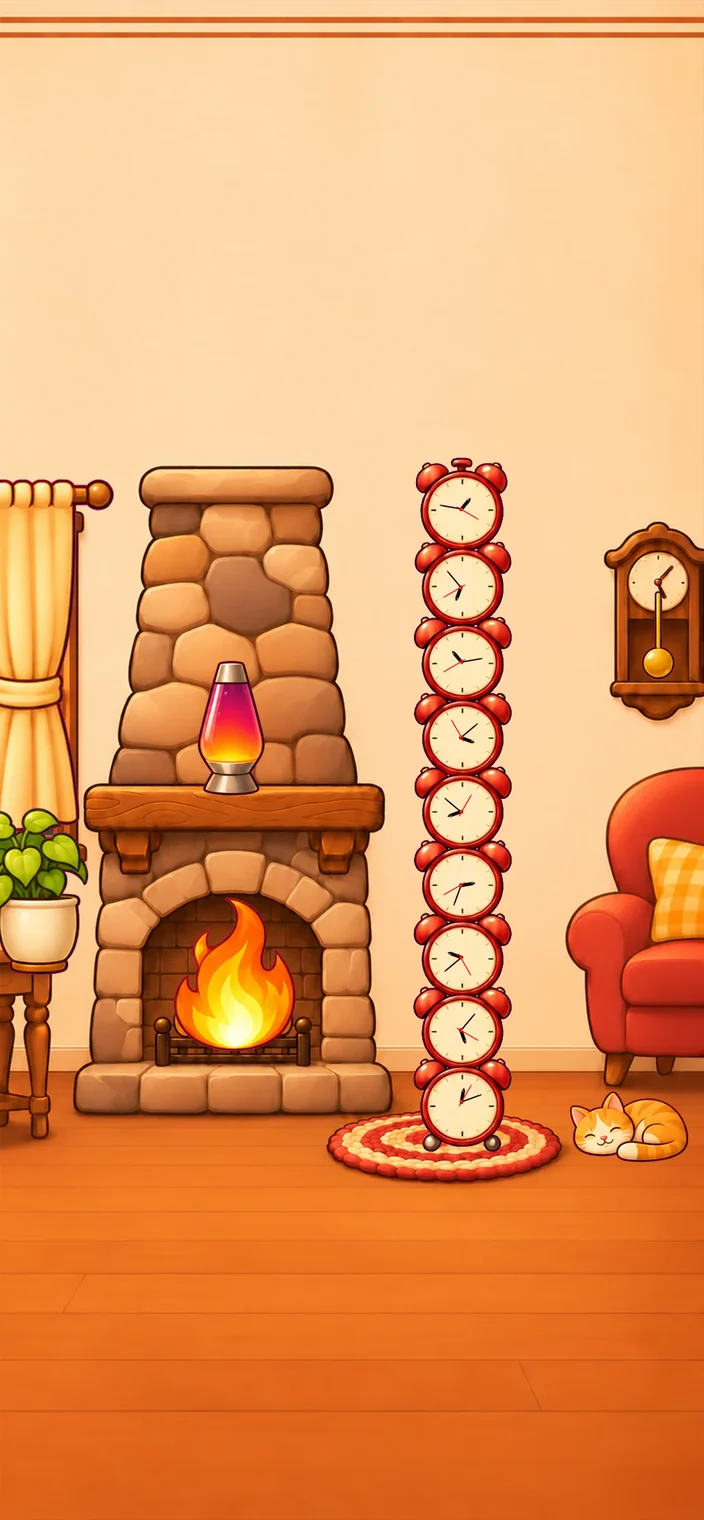
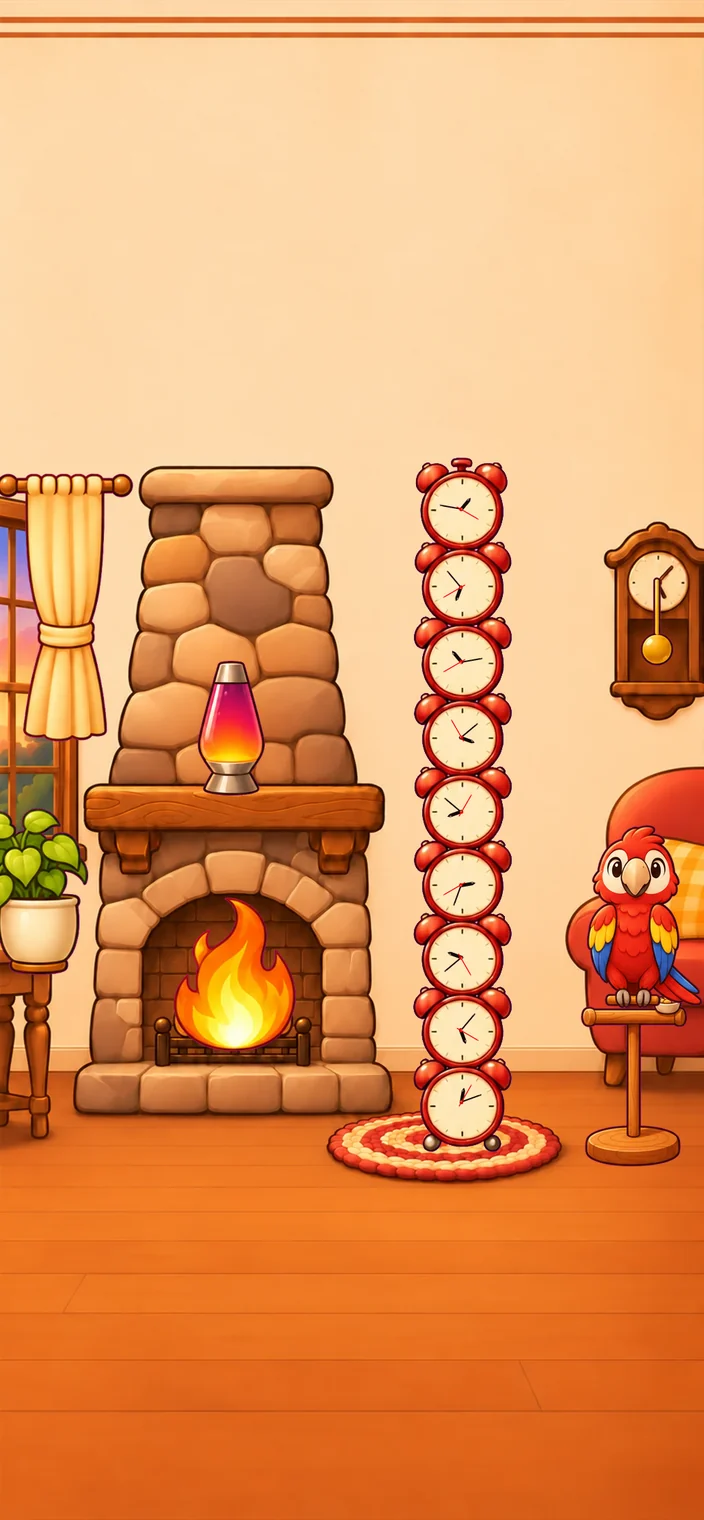
Fireside: a scarlet macaw on a perch replaces the cat (blinks, tilts its head, fluffs and flaps; a tap makes it whistle with music notes)
Claude-Session: https://claude.ai/code/session_01LfmF5cxUUBcpb9MQqZTHNz

Changed region(s): [[0.0, 0.3092, 0.1875, 0.5566], [0.8125, 0.5257, 1.0, 0.773], [0.9062, 0.3711, 0.9688, 0.4638]]

diff --git a/anim/home-bedroom.css b/anim/home-bedroom.css
@@ -42,12 +42,6 @@
 #home-art[data-scene=bedroom] .l-pend-clip { overflow: hidden; }
 #home-art[data-scene=bedroom] .l-pendulum { position: absolute; transform-origin: 50% 0; animation: lPendulum 2s ease-in-out infinite; }
 #home-art[data-scene=bedroom] .l-pendulum img { width: 100%; }
-#home-art[data-scene=bedroom] .l-cat > img { position: absolute; left: 0; top: 0; width: 100%; }
-#home-art[data-scene=bedroom] .l-cat { aspect-ratio: 386 / 233; transform-origin: 50% 100%; animation: lBreathe 4s ease-in-out infinite; }
-#home-art[data-scene=bedroom] .l-cat-2 { animation: lCatB 4s ease-in-out infinite; }
-#home-art[data-scene=bedroom] .l-cat[data-purr] { animation: lPurr .16s ease-in-out 9; }
-#home-art[data-scene=bedroom] .l-zzz { position: absolute; left: 0; top: 0; width: 100%; height: 100%; pointer-events: none; }
-#home-art[data-scene=bedroom] .l-zzz i { position: absolute; top: 10%; font: 700 22px/1 Fredoka, system-ui, sans-serif; font-style: normal; color: #fff; text-shadow: 0 0 3px #7a4a1e, 1px 1px 0 #7a4a1e, -1px -1px 0 #7a4a1e; }
 #home-art[data-scene=bedroom] .w-hit { position: absolute; z-index: 40; pointer-events: auto; padding: 0; background: transparent; border: 0; box-shadow: none; cursor: pointer; touch-action: manipulation; -webkit-tap-highlight-color: transparent; }
 #home-art[data-scene=bedroom] .w-hit:focus-visible { outline: 2px solid #4a2c12; outline-offset: 3px; }
 @keyframes lSpin { from { transform: rotate(var(--a)); } to { transform: rotate(calc(var(--a) + 360deg)); } }
@@ -59,10 +53,17 @@
 @keyframes lBlob { 0%,100% { transform: translateY(0) scale(.9); } 50% { transform: translateY(-190%) scale(1.15); } }
 @keyframes lWobble { 0%,100% { transform: none; } 20% { transform: rotate(-4deg); } 45% { transform: rotate(3.5deg); } 70% { transform: rotate(-2deg); } }
 @keyframes lPendulum { 0%,100% { transform: rotate(7deg); } 50% { transform: rotate(-7deg); } }
-@keyframes lBreathe { 0%,100% { transform: scale(1, 1); } 50% { transform: scale(1.01, 1.035); } }
-@keyframes lCatB { 0%,35% { opacity: 0; } 50%,85% { opacity: 1; } 100% { opacity: 0; } }
-@keyframes lPurr { 0%,100% { transform: translateX(0); } 50% { transform: translateX(.6%); } }
 /* Lift the scene above the bottom buttons and carry the floor on underneath (see the Workshop Yard note). */
 #home-art[data-scene=bedroom] .hs-stage { transform: translate(-50%, -5.5%); }
 #home-art[data-scene=bedroom] .hs-stage::after { content: ""; position: absolute; left: 0; right: 0; top: 100%; height: 8%; background: #d15816; }
 @keyframes lCurtain { 0%,100% { transform: skewX(-1.2deg) scaleX(1); } 50% { transform: skewX(1.6deg) scaleX(1.025); } }
+#home-art[data-scene=bedroom] .b-parrot { transform-origin: 50% 100%; animation: bBob 4.2s ease-in-out infinite; }
+#home-art[data-scene=bedroom] .b-p { position: absolute; left: 0; top: 0; width: 100%; height: auto; opacity: 0; }
+#home-art[data-scene=bedroom] .b-parrot[data-pose=idle] .b-p-idle, #home-art[data-scene=bedroom] .b-parrot[data-pose=tilt-a] .b-p-tilt-a, #home-art[data-scene=bedroom] .b-parrot[data-pose=tilt-b] .b-p-tilt-b,
+#home-art[data-scene=bedroom] .b-parrot[data-pose=blink] .b-p-blink, #home-art[data-scene=bedroom] .b-parrot[data-pose=whistle] .b-p-whistle, #home-art[data-scene=bedroom] .b-parrot[data-pose=wings] .b-p-wings,
+#home-art[data-scene=bedroom] .b-parrot[data-pose=fluff] .b-p-fluff { opacity: 1; }
+#home-art[data-scene=bedroom] .b-parrot[data-bounce] { animation: bBounce .5s ease-out 3; }
+#home-art[data-scene=bedroom] .b-notes { position: absolute; inset: 0; pointer-events: none; }
+#home-art[data-scene=bedroom] .b-note { position: absolute; height: auto; }
+@keyframes bBob { 0%,100% { transform: scale(1, 1); } 50% { transform: scale(1.006, 1.016); } }
+@keyframes bBounce { 0% { transform: translateY(0) scale(1, 1); } 35% { transform: translateY(-3%) scale(.98, 1.03); } 100% { transform: translateY(0) scale(1, 1); } }
